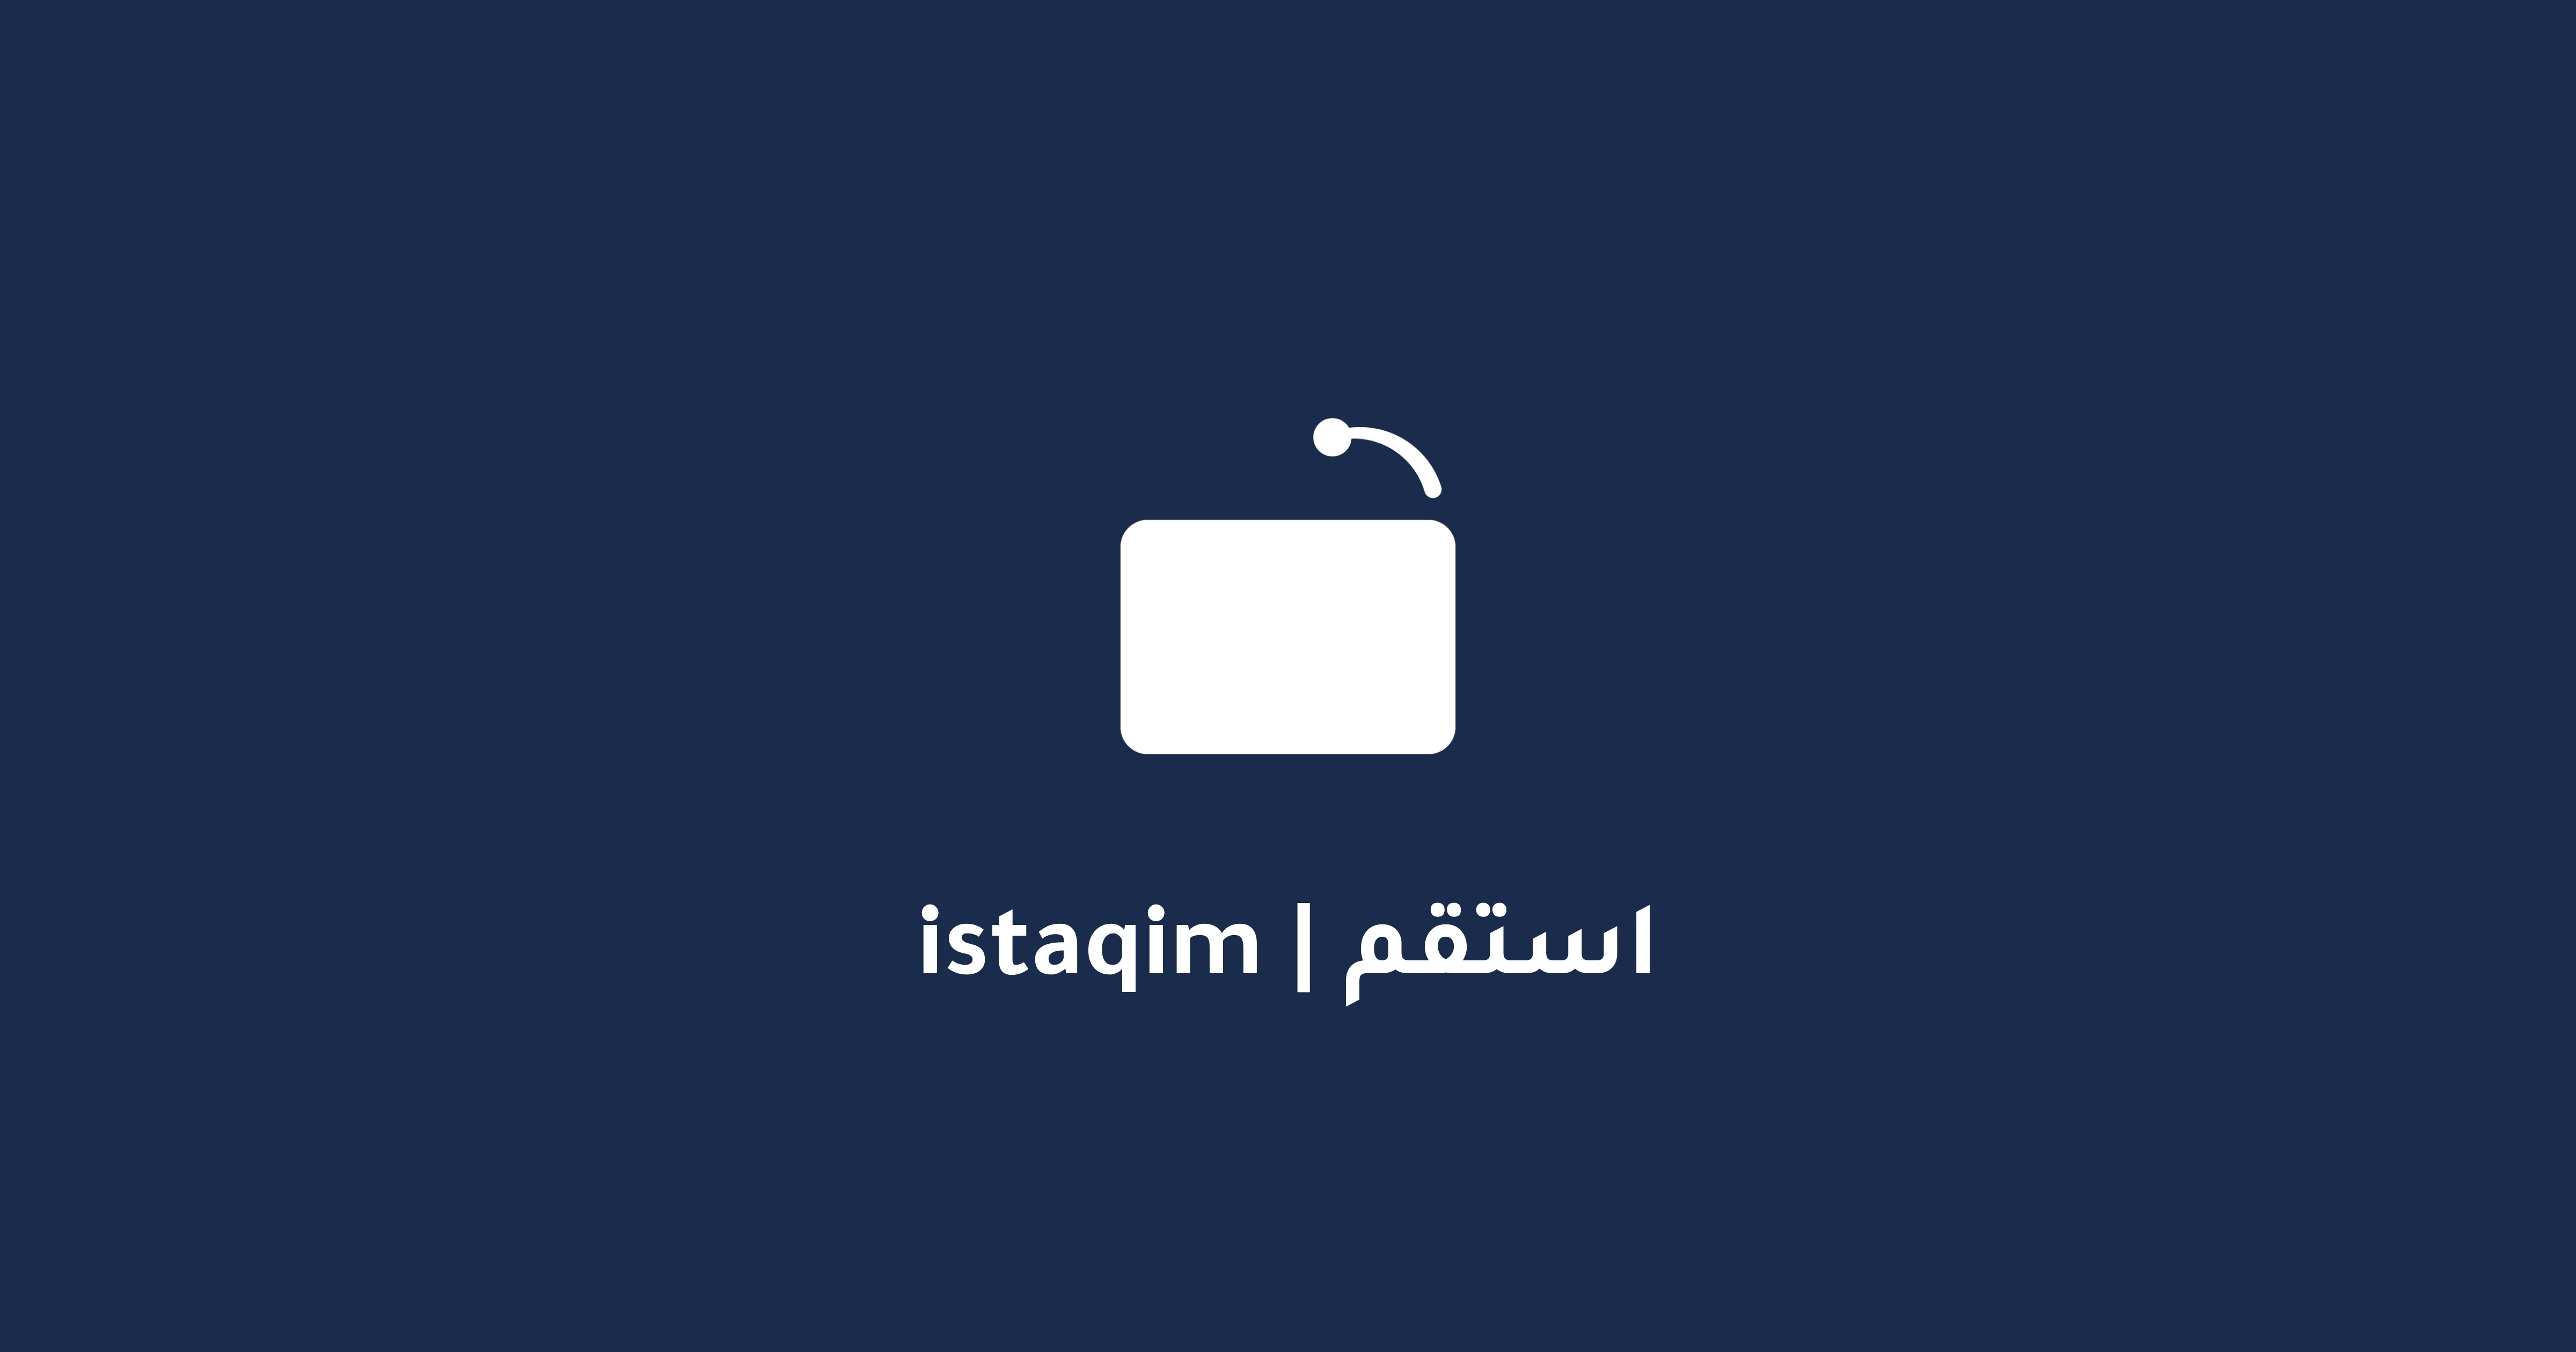
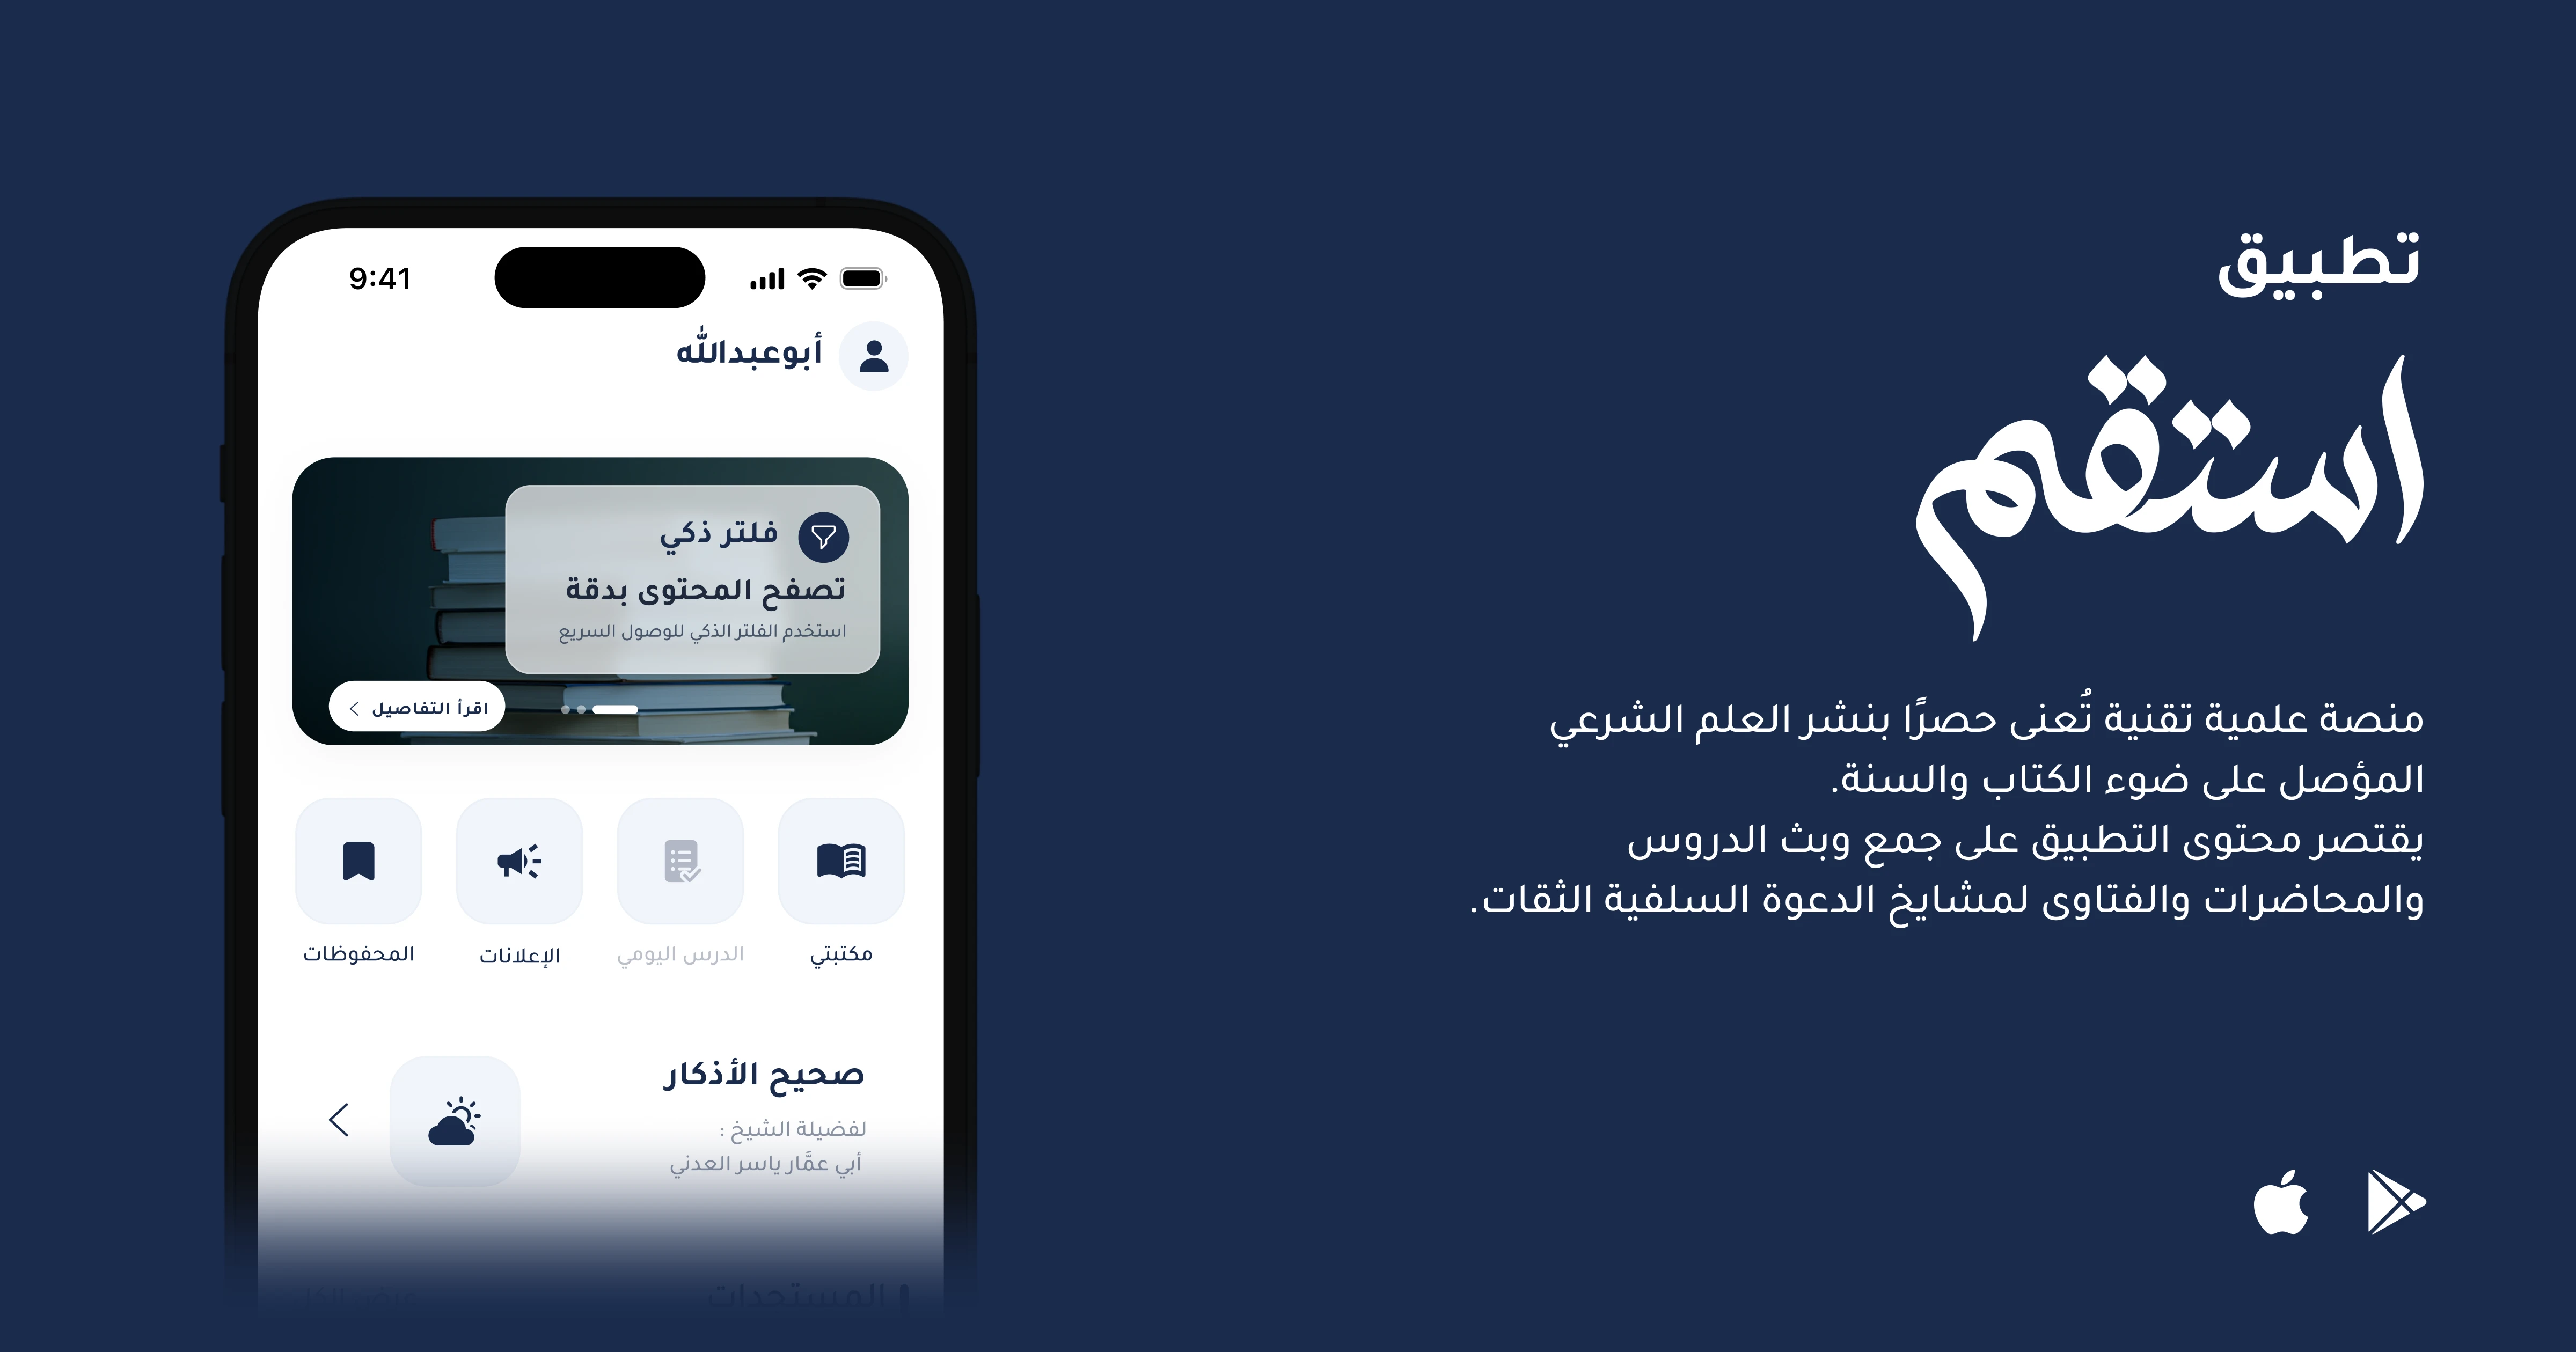
update landing page

diff --git a/src/App.tsx b/src/App.tsx
@@ -24,18 +24,19 @@ interface DownloadButtonProps {
 const AppStoreButton = ({ isDark }: DownloadButtonProps) => (
   <a 
     href="#download" 
-    className={`inline-flex items-center gap-3 px-5 sm:px-6 h-[58px] rounded-2xl border transition-all duration-200 md:hover:scale-[1.02] active:scale-95 group mb-1.5 sm:mb-0 shadow-lg ${
+    dir="rtl"
+    className={`flex items-center justify-center gap-4 px-5 w-full sm:w-[240px] h-[58px] rounded-[50px] border transition-all duration-200 md:hover:scale-[1.02] active:scale-95 group ${
       isDark 
-        ? "bg-[#1C1C1E] md:hover:bg-[#202C41] text-white border-[#647DA1]/15 shadow-black/10" 
-        : "bg-[#1A2B4C] md:hover:bg-[#111C33] text-white border-white/10 shadow-[#1A2B4C]/20"
+        ? "bg-[#1C1C1E] md:hover:bg-[#202C41] text-white border-[#647DA1]/15" 
+        : "bg-[#1A2B4C] md:hover:bg-[#111C33] text-white border-white/10"
     }`}
   >
     <svg className="w-8 h-8 text-white fill-current transition-transform duration-200 md:group-hover:scale-105" viewBox="0 0 24 24">
       <path d="M18.71 19.5c-.83 1.24-1.71 2.45-3.05 2.47-1.34.03-1.77-.79-3.29-.79-1.53 0-2 .77-3.27.82-1.31.05-2.3-1.32-3.14-2.53C4.25 17 2.94 12.45 4.7 9.39c.87-1.52 2.43-2.48 4.12-2.51 1.28-.02 2.5.87 3.29.87.78 0 2.26-1.07 3.81-.91.65.03 2.47.26 3.64 1.98-.09.06-2.17 1.28-2.15 3.81.03 3.02 2.65 4.03 2.68 4.04-.03.07-.42 1.44-1.38 2.83M15.97 4.17c.66-.81 1.11-1.93.99-3.06-1 .04-2.2.67-2.92 1.49-.62.72-1.16 1.87-1.01 2.98 1.12.09 2.27-.6 2.94-1.41z"/>
     </svg>
-    <div className="text-right flex flex-col items-start leading-[1.2]">
-      <span className="text-[9px] text-[#AABBD9] tracking-wider uppercase font-bold font-sans">تحميل للآيفون</span>
-      <span className="text-[14px] font-bold font-sans mt-0.5">App Store</span>
+    <div className="flex flex-col items-start leading-[1.2]">
+      <span className="text-[11px] text-[#AABBD9] font-sans mb-1">حمل التطبيق من</span>
+      <span className="text-[15px] font-bold font-sans">متجـر أبـل سـتور</span>
     </div>
   </a>
 );
@@ -43,20 +44,28 @@ const AppStoreButton = ({ isDark }: DownloadButtonProps) => (
 const GooglePlayButton = ({ isDark }: DownloadButtonProps) => (
   <a 
     href="#download" 
-    className={`inline-flex items-center gap-3 px-5 sm:px-6 h-[58px] rounded-2xl border transition-all duration-200 md:hover:scale-[1.02] active:scale-95 group mb-1.5 sm:mb-0 shadow-lg ${
+    dir="rtl"
+    className={`flex items-center justify-center gap-4 px-5 w-full sm:w-[240px] h-[58px] rounded-[50px] border transition-all duration-200 md:hover:scale-[1.02] active:scale-95 group ${
       isDark 
-        ? "bg-[#1C1C1E] md:hover:bg-[#202C41] text-white border-[#647DA1]/15 shadow-black/10" 
-        : "bg-[#1A2B4C] md:hover:bg-[#111C33] text-white border-white/10 shadow-[#1A2B4C]/20"
+        ? "bg-[#1C1C1E] md:hover:bg-[#202C41] text-white border-[#647DA1]/15" 
+        : "bg-[#1A2B4C] md:hover:bg-[#111C33] text-white border-white/10"
     }`}
   >
     <svg viewBox="0 0 24 24" className="w-6 h-6 text-white fill-current transition-transform duration-200 md:group-hover:scale-105" fill="currentColor">
       <path d="M22.018 13.298l-3.919 2.218-3.515-3.493 3.543-3.521 3.891 2.202a1.49 1.49 0 0 1 0 2.594zM1.337.924a1.486 1.486 0 0 0-.112.568v21.017c0 .217.045.419.124.6l11.155-11.087L1.337.924zm12.207 10.065l3.258-3.238L3.45.195a1.466 1.466 0 0 0-.946-.179l11.04 10.973zm0 2.067l-11 10.933c.298.036.612-.016.906-.183l13.324-7.54-3.23-3.21z" />
     </svg>
-    <div className="text-right flex flex-col items-start leading-[1.2]">
-      <span className="text-[9px] text-[#AABBD9] tracking-wider uppercase font-bold font-sans">تحميل للأندرويد</span>
-      <span className="text-[14px] font-bold font-sans mt-0.5">Google Play</span>
+    <div className="flex flex-col items-start leading-[1.2]">
+      <span className="text-[11px] text-[#AABBD9] font-sans mb-1">حمل التطبيق من</span>
+      <span className="text-[16px] font-bold font-sans">متجـر جوجـل بـلاي</span>
     </div>
   </a>
+);
+
+export const DownloadButtonsSection = ({ isDark }: DownloadButtonProps) => (
+  <div className="flex flex-col items-center gap-4">
+    <AppStoreButton isDark={isDark} />
+    <GooglePlayButton isDark={isDark} />
+  </div>
 );
 
 export default function App() {
@@ -85,7 +94,7 @@ export default function App() {
     }
     const formattedText = `السلام عليكم ورحمة الله وبركاته،\n\nأود تقديم [${messageType}] بخصوص تطبيق "استقم":\n\n*العنوان:* ${subject}\n\n*الرسالة:*\n${messageText}`;
     const encodedText = encodeURIComponent(formattedText);
-    window.open(`https://api.whatsapp.com/send?text=${encodedText}`, "_blank");
+    window.open(`https://wa.me/967773687374?text=${encodedText}`, "_blank");
   };
 
   return (
@@ -124,28 +133,56 @@ export default function App() {
           </nav>
 
           {/* Elegant Dark/Light Mode Switcher */}
-          <div>
-            <button 
-              onClick={toggleDarkMode}
-              className={`inline-flex items-center gap-2 px-4 py-2 rounded-xl font-bold text-xs shadow-md transition-all duration-200 active:scale-95 ${
-                isDark 
-                  ? "bg-[#1C1C1E] hover:bg-stone-800 text-[#647DA1] shadow-stone-950/20 border border-stone-800" 
-                  : "bg-stone-100 hover:bg-stone-200 text-[#1A2B4C] border border-stone-200 shadow-sm"
-              }`}
-            >
-              {isDark ? (
-                <>
-                  
-                  <span className="text-[#EBEBF5]">جرِّب الوضع النهاري</span>
-                </>
-              ) : (
-                <>
-                 
-                  <span>جرِّب الوضع الليلي</span>
-                </>
-              )}
-            </button>
-          </div>
+         <div className="flex items-center">
+      <button
+        onClick={toggleDarkMode}
+        type="button"
+        aria-label="تغيير المظهر"
+        className={`relative flex items-center justify-center w-10 h-10 rounded-[15px] border transition-all duration-300 active:scale-95 group overflow-hidden ${
+          isDark
+            ? "bg-[#1C1C1E] text-[#EBEBF5] border-[#647DA1]/15 hover:bg-[#252529]"
+            : "bg-white text-[#1A2B4C] border-stone-200/60 hover:bg-stone-50 hover:text-black"
+        }`}
+      >
+        {/* أيقونة الشمس (تظهر في الوضع الليلي للتحويل للنهاري) */}
+        <svg
+          className={`w-5 h-5 absolute transition-all duration-500 ease-out transform ${
+            isDark 
+              ? "scale-100 rotate-0 opacity-100" 
+              : "scale-0 -rotate-90 opacity-0"
+          }`}
+          fill="none"
+          viewBox="0 0 24 24"
+          stroke="currentColor"
+          strokeWidth="2"
+        >
+          <path
+            strokeLinecap="round"
+            strokeLinejoin="round"
+            d="M12 3v1m0 16v1m9-9h-1M4 12H3m15.364-6.364l-.707.707M6.343 17.657l-.707.707m12.728 0l-.707-.707M6.343 6.343l-.707-.707m2.828 5.657a4 4 0 118 0 4 4 0 01-8 0z"
+          />
+        </svg>
+
+        {/* أيقونة القمر (تظهر في الوضع النهاري للتحويل لليلي) */}
+        <svg
+          className={`w-5 h-5 absolute transition-all duration-500 ease-out transform ${
+            isDark 
+              ? "scale-0 rotate-90 opacity-0" 
+              : "scale-100 rotate-0 opacity-100"
+          }`}
+          fill="none"
+          viewBox="0 0 24 24"
+          stroke="currentColor"
+          strokeWidth="2"
+        >
+          <path
+            strokeLinecap="round"
+            strokeLinejoin="round"
+            d="M20.354 15.354A9 9 0 018.646 3.646 9.003 9.003 0 0012 21a9.003 9.003 0 008.354-5.646z"
+          />
+        </svg>
+      </button>
+    </div>
 
         </div>
       </header>
@@ -304,7 +341,7 @@ export default function App() {
               className={`text-base sm:text-[21px] font-bold leading-[1.8] text-center px-4 transition-colors duration-300 ${isDark ? "text-[#EBEBF5]" : "text-[#1A2B4C]"}`}
               style={{ fontFamily: "'Tajawal', sans-serif" }}
             >
-              "نسأل الله أن نكون وُفّقنا في أن نجعل استماعك للعلم سهلًا ميسّرًا، صافيًا من كل شاغل. ونسأله سبحانه القبول والإخلاص"
+              "نسأل الله أن نكون وُفّقنا في أن نجعل استماعك للعلم سهلًا ميسّرًا، صافيًا من كل شاغل، ونسأله سبحانه القبول والإخلاص"
             </p>
             <div className={`h-0.5 w-16 mx-auto mt-8 rounded-full transition-colors duration-300 ${isDark ? "bg-[#647DA1]/20" : "bg-[#1A2B4C]/20"}`} />
           </div>
@@ -333,7 +370,7 @@ export default function App() {
 
             {/* Link Directory columns replaced with Suggestions & Complaints Feedback Module */}
             <div id="contact" className="md:col-span-8 md:mr-10 text-right">
-              <div className={`rounded-3xl p-6 sm:p-8 border transition-all duration-300 ${isDark ? "bg-[#1C1C1E] border-stone-800/80" : "bg-stone-50 border-stone-100/80"}`}>
+              <div className={`rounded-3xl p-6 sm:p-8 transition-all duration-300 ${isDark ? " border-stone-800/80" : " border-stone-100/80"}`}>
                 <div className="flex flex-col sm:flex-row sm:items-center justify-between gap-4 mb-6">
                   <div>
                     <h4 className={`text-base font-bold mb-1 ${isDark ? "text-[#EBEBF5]" : "text-[#111113]"}`}>الشكاوى والمقترحات</h4>
@@ -409,9 +446,7 @@ export default function App() {
                       disabled={!subject.trim() || !messageText.trim()}
                       className="inline-flex items-center gap-2 bg-[#25D366] hover:bg-[#20ba5a] text-white px-6 py-2.5 rounded-xl font-bold text-xs shadow-md shadow-emerald-500/10 hover:scale-[1.02] active:scale-[0.98] transition-all duration-300 disabled:opacity-50 disabled:pointer-events-none cursor-pointer"
                     >
-                      <svg className="w-4.5 h-4.5 fill-current ml-1" viewBox="0 0 24 24">
-                        <path d="M.057 24l1.687-6.163c-1.041-1.804-1.588-3.849-1.587-5.946C.06 5.348 5.397.01 12.008.01c3.202.001 6.212 1.246 8.477 3.514 2.266 2.268 3.507 5.28 3.505 8.484-.004 6.657-5.34 11.997-11.953 11.997-2.009-.002-3.98-.51-5.734-1.482L0 24zm6.59-4.846c1.6.95 3.188 1.449 4.825 1.451 5.436 0 9.86-4.37 9.864-9.799.002-2.623-1.011-5.09-2.855-6.938C16.638 2.02 14.17 1 11.545 1 6.112 1 1.689 5.367 1.685 10.797c-.001 1.701.464 3.363 1.346 4.825l-.946 3.454 3.562-.924z" stroke="none" />
-                      </svg>
+                      
                       <span>إرسال عبر الواتساب</span>
                     </button>
                   </div>